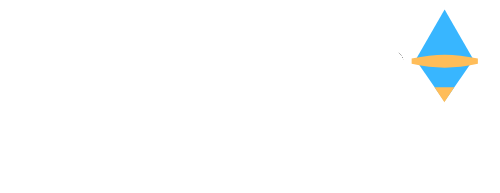
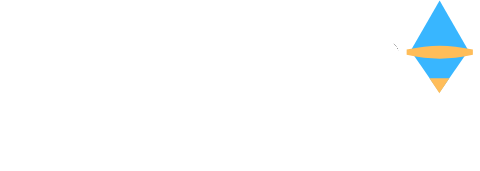
Add /dote

Changed region(s): [[0.8125, 0.0, 1.0, 0.5556]]

diff --git a/src/App.jsx b/src/App.jsx
@@ -15,6 +15,7 @@ import { propFilter, tagFilter, worldFilter } from "./filters/filters";
 import { HorizontalScroll } from './components/horizontal-scroll/HorizontalScroll';
 import { ReactComponent as DiscordIcon } from "./assets/icons/discord-icon.svg";
 import { ReactComponent as NewVenue } from "./assets/icons/new-venue-icon.svg";
+import { ReactComponent as DoteLogo } from "./assets/logos/dote.svg";
 
 
 class App extends React.Component {
@@ -248,7 +249,9 @@ class App extends React.Component {
           <div className="aether-venues__heading">
             <h1><img src="full-logo.png" alt="FFXIV Venues" /></h1>
             <div className="aether-venues__colaborators">
-              In colaboration with
+              In collaboration with
+              <a href="https://dote.carrd.co/" target="_blank" rel="noopener"><DoteLogo style={{height: "30px"}} /></a>
+              and 
               <a href="https://aetherentertainer.carrd.co/" target="_blank" rel="noopener"><img src="aether-entertainer.png" alt="Aether Entertainer Gazette" /></a>
             </div>
           </div>

diff --git a/src/components/venue-card/VenueCard.jsx b/src/components/venue-card/VenueCard.jsx
@@ -28,11 +28,12 @@ class VenueCard extends VenueOpening {
     setVisited(e) {
         visitedService.setVisited(this.props.venue.id);
         e.stopPropagation();
-        this.forceUpdate(); // this should be done via observer
+        this.forceUpdate(); 
+        // todo: this should be done via observer, with
     }
 
     render() {
-        return <div className={"venue-card " + (this.props.venue.id) + (this.state.isOpen ? " venue-card--open" : "") + (this.props.time ? "" : " venue-card--no-time")}>
+        return <div id={"venue-" + (this.props.venue.id)} className={"venue-card " + (this.props.venue.id) + (this.state.isOpen ? " venue-card--open" : "") + (this.props.time ? "" : " venue-card--no-time")}>
 
             <div className="venue-card__block" 
                  role="row" 

diff --git a/src/App.css b/src/App.css
@@ -49,9 +49,10 @@ a {
   padding: 10px 20px 5px;
 }
 
-.aether-venues__heading img {
-  height: 40px;
-  margin: 2.5px;
+.aether-venues__heading img,
+.aether-venues__heading svg {
+  height: 35px;
+  margin: 5px;
 }
 
 .aether-venues__heading h1 {
@@ -67,8 +68,15 @@ a {
   float: right;
 }
 
-.aether-venues__colaborators img {
-  margin-left: 15px
+.aether-venues__colaborators a {
+  margin-left: 15px;
+  margin-right: 15px;
+}
+.aether-venues__colaborators a:first-of-type {
+  margin-left: 10px;
+}
+.aether-venues__colaborators a:last-of-type {
+  margin-right: 0;
 }
 
 .aether-venues__tags {
